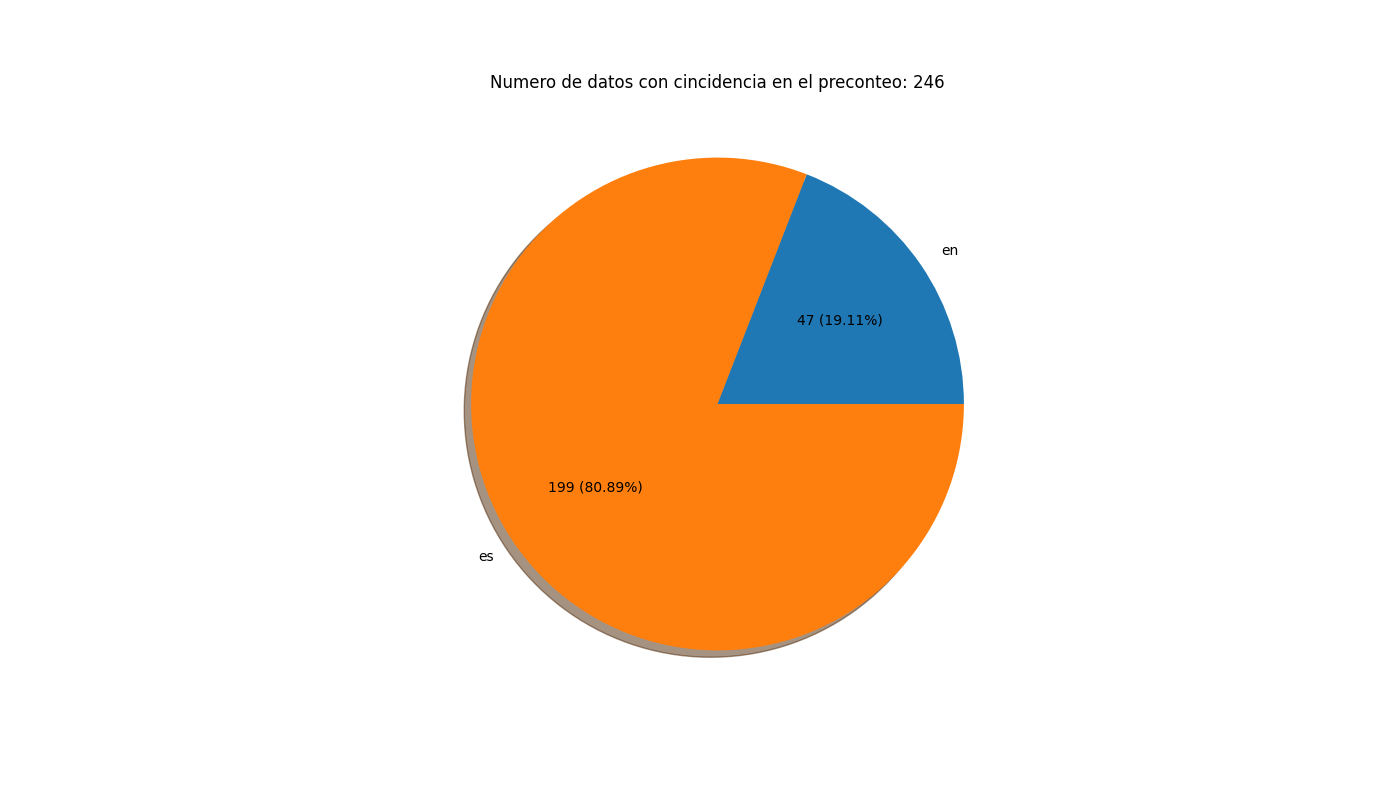
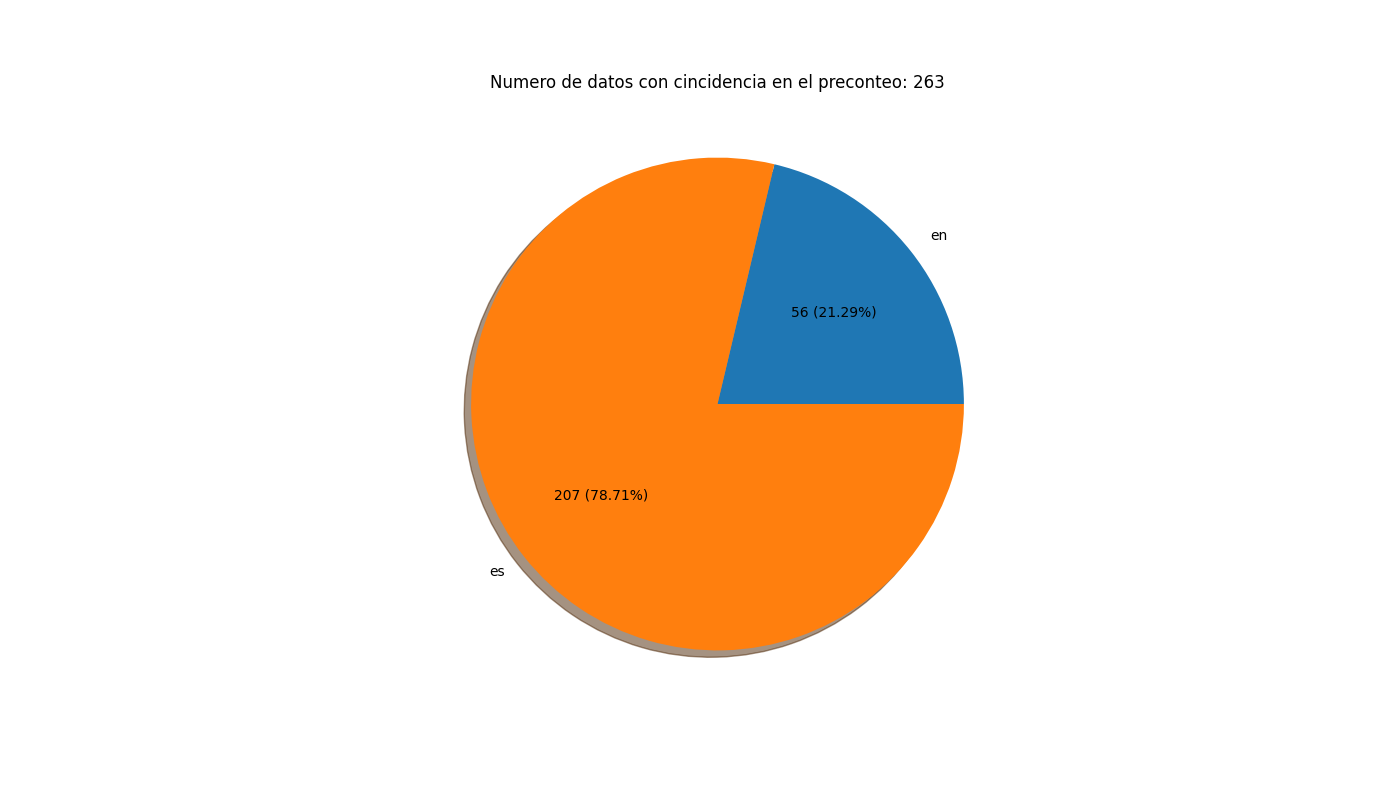
nuevas imagenes

diff --git a/captura_de_datos/data_analysis.py b/captura_de_datos/data_analysis.py
@@ -8,7 +8,7 @@ from gensim.utils import any2unicode as unicode
 # pip3 install -r requirements.txt <---- por si da flojera instalarlos a mano.
 
 
-usar_muestra = 1
+usar_muestra = 0
 
 stemmer_en = SnowballStemmer('english')
 stemmer_es = SnowballStemmer('spanish')
